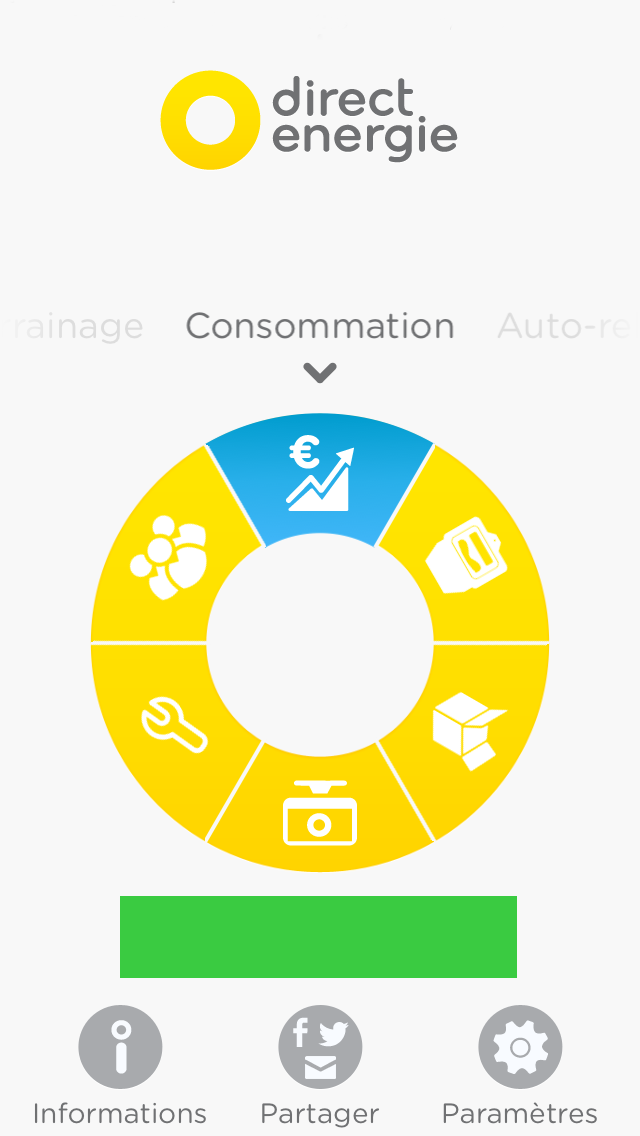
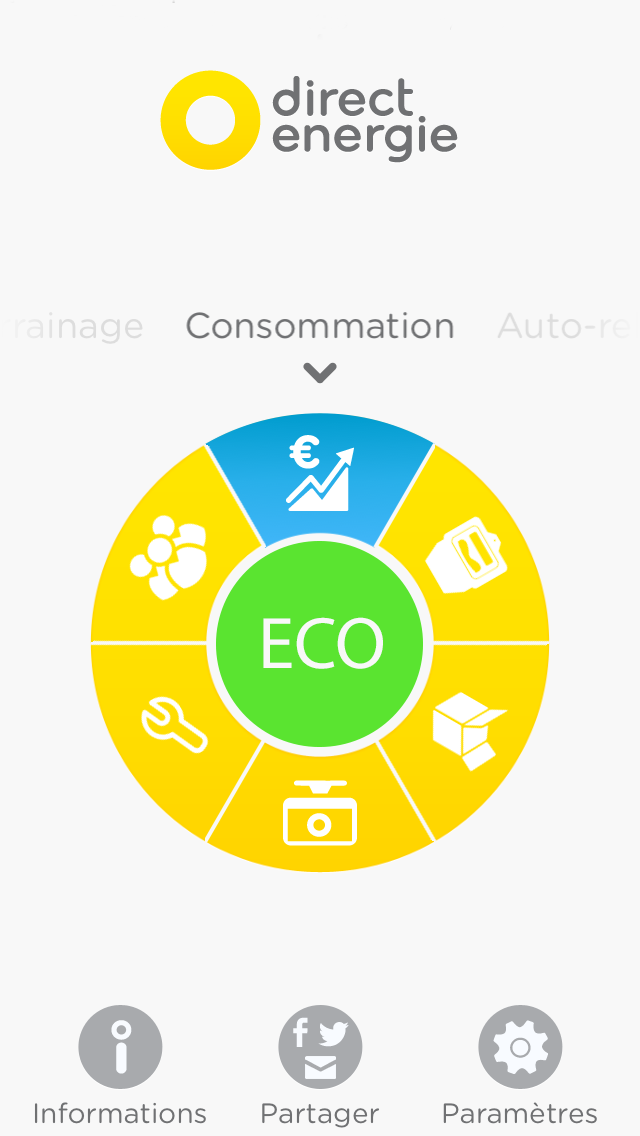
Changing Bar and Homescreen

Changed region(s): [[0.3125, 0.4621, 0.6875, 0.6778], [0.1875, 0.7702, 0.8125, 0.8627]]

diff --git a/iOS/InstaGrid/ViewControllers/MFPHomeViewController.m b/iOS/InstaGrid/ViewControllers/MFPHomeViewController.m
@@ -46,6 +46,11 @@ UICollectionViewDelegate>
     //[wheel addTarget:self action:@selector(wheelDidChangeValue:) forControlEvents:UIControlEventValueChanged];
 }
 
+-(void)viewWillAppear:(BOOL)animated{
+    [super viewWillAppear:animated];
+    [self.navigationController setNavigationBarHidden:YES animated:YES];
+}
+
 #pragma mark setters & getters
 
 - (void)setDevicesArray:(NSArray *)devicesArray

diff --git a/iOS/InstaGrid/ViewControllers/MFPConsoViewController.m b/iOS/InstaGrid/ViewControllers/MFPConsoViewController.m
@@ -43,7 +43,7 @@ UICollectionViewDelegate>
 - (void)viewWillAppear:(BOOL)animated
 {
     [super viewWillAppear:animated];
-    
+    [self.navigationController setNavigationBarHidden:NO animated:YES];
     MainManager *manager = [MainManager sharedInstance];
     if (manager.instaGridAccepted == NO) {
         if ([self isMovingToParentViewController])

diff --git a/iOS/InstaGrid/ViewControllers/MFPDevicesViewController.m b/iOS/InstaGrid/ViewControllers/MFPDevicesViewController.m
@@ -51,6 +51,7 @@ UICollectionViewDelegate>
 - (void)viewWillAppear:(BOOL)animated
 {
     [super viewWillAppear:animated];
+    [self.navigationController setNavigationBarHidden:NO animated:YES];
 }
 
 - (void)viewDidAppear:(BOOL)animated
